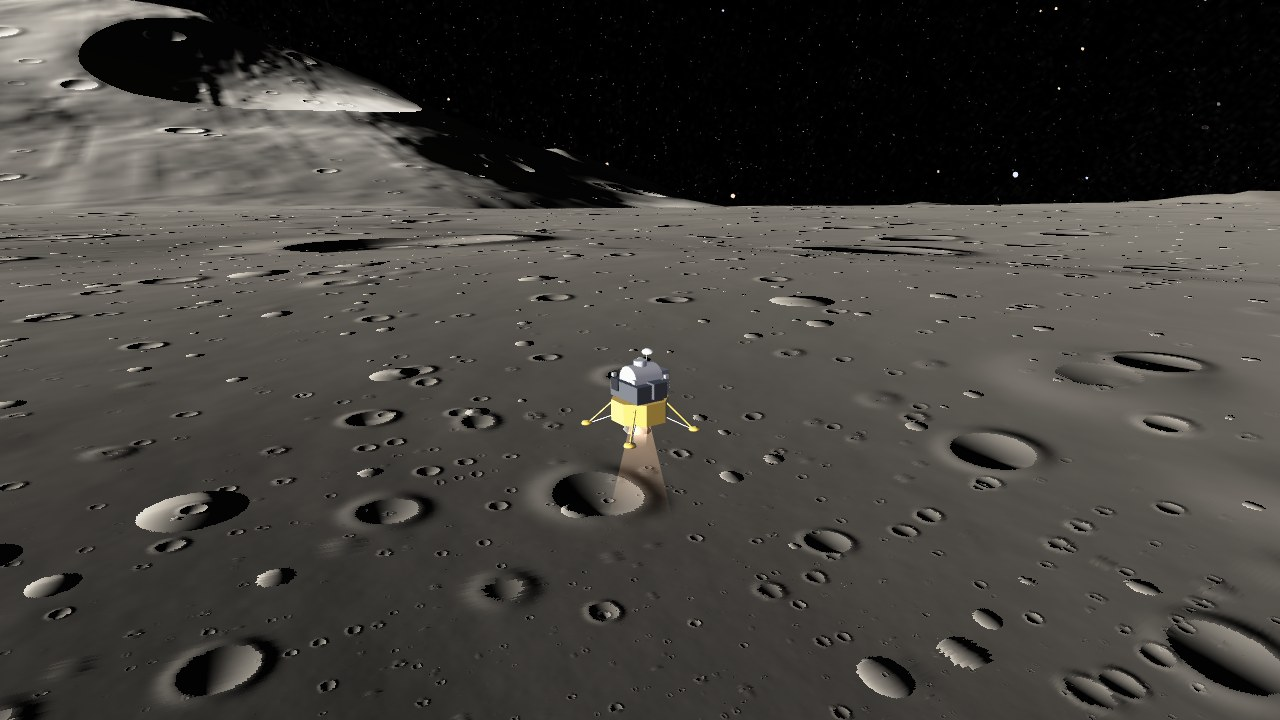
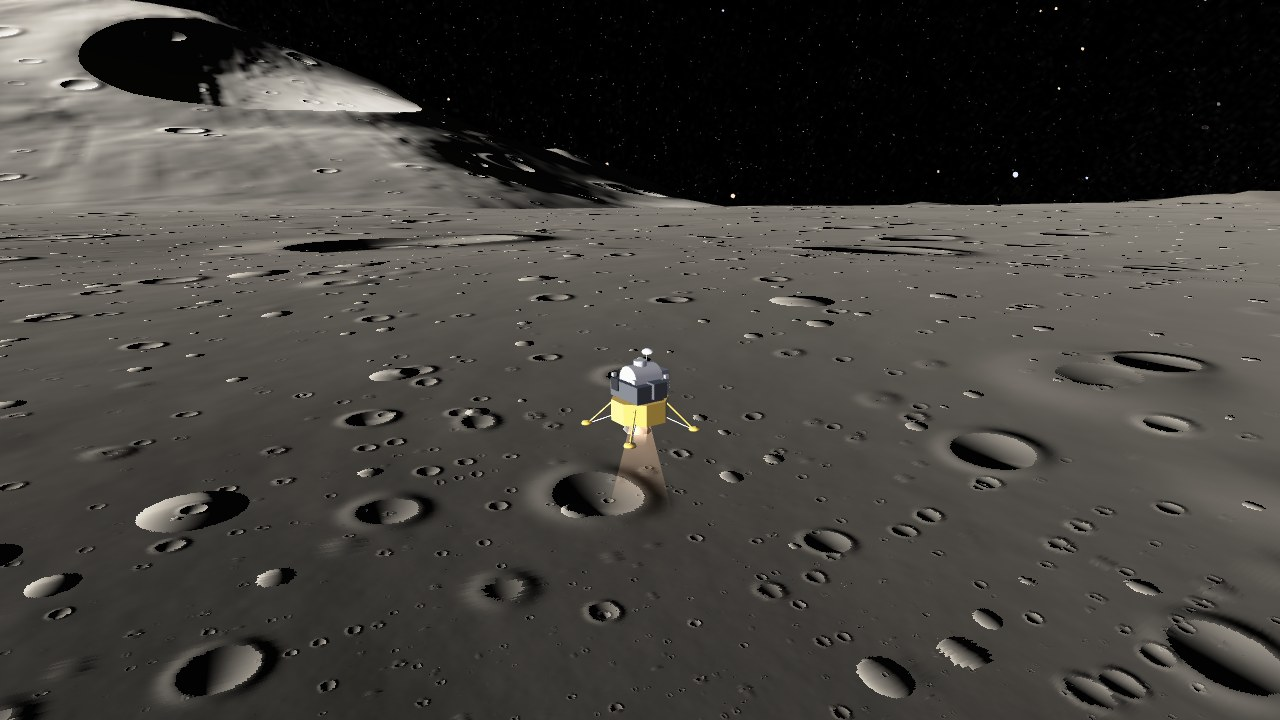
Shade the Moon's relief at its real slopes, keep Antarctica's coastal ice sheet off the sea, and keep Mars's boulders and crater floors from darkening its map colors

Changed region(s): [[0.1562, 0.0611, 0.5, 0.3056], [0.0, 0.0, 0.1875, 0.1833]]

diff --git a/src/shaders.h b/src/shaders.h
@@ -712,6 +712,20 @@ vec4 boulders(vec3 p, float F, float cover, float tall, vec3 salt) {
     return s;
 }
 
+// boulders が地表を覆う割合（3 段のうち画素より大きく見える段。1 段は セルに置く確率 × 球の体積の割合の平均 0.0313）
+float bouldersArea(float F, float cover) {
+    float a = 1.0, f = F;
+    for (int k = 0; k < 3; k++, f *= 2.3) if (lodW(f) > 0.0) a *= 1.0 - min(cover * 30.0, 1.0) * 0.0313;
+    return 1.0 - a;
+}
+// craters の g_floor の平均（崩れたクレーターの底の割合）。1 個の平均（底の球の体積 × (1 - 新しさ)。r と新しさの分布での平均
+// 0.00444）に層ごとの置く確率と、平均の半径 0.15 での重みを掛けて足す
+float craterFloorMean(float density, float F0, float worn) {
+    float s = 0.0, F = F0, dk = density;
+    for (int i = 0; i < 16 && lodW(F * 1.7) > 0.0; i++, F *= 2.2, dk *= craterLayerK(worn)) s += min(dk, 1.0) * 0.00444 * lodW(F / 0.3);
+    return s;
+}
+
 // 砂の波（さざ波・砂丘）: 決まった 2 つの向きの波を、場所ごとにゆっくり変わる重みで混ぜる（向きそのものを場所で変えると、
 // 細かい波の位相が乱れるため）。断面は風下側が急な非対称。峰は数波長ごとに曲がり、高さは峰の曲がりと同じノイズでむらにする。
 // 大小 2 つの波（さざ波と砂丘）をまとめて求める。F1, F2: 波数（単位球の長さあたり、波長 = 2π / F）、k1, k2: 傾きの大きさ
@@ -1256,9 +1270,9 @@ vec4 moonTex(vec3 p, vec3 o, out vec3 base) {
     float hN = moonHeightM(textureGrad(texture1, uv - vec2(0.0, st.y), dx, dy));
     float hS = moonHeightM(textureGrad(texture1, uv + vec2(0.0, st.y), dx, dy));
     float hm = moonHeightM(textureGrad(texture1, uv, dx, dy));
-    const float R = 1737400.0, EXAG = 1.5;
-    float dhdLon = (hE - hW) / (2.0 * st.x) / (2.0 * PI) / R * EXAG;
-    float dhdLat = (hN - hS) / (2.0 * st.y) / PI / R * EXAG;
+    const float R = 1737400.0;   // 起伏の陰影は実際の傾きのまま（強調しない。地球と同じ）
+    float dhdLon = (hE - hW) / (2.0 * st.x) / (2.0 * PI) / R;
+    float dhdLat = (hN - hS) / (2.0 * st.y) / PI / R;
     vec3 east = vec3(-sin(lon), 0.0, -cos(lon));
     vec3 north = vec3(-sin(lat) * cos(lon), cos(lat), sin(lat) * sin(lon));
     vec3 grad = east * dhdLon / max(cos(lat), 0.05) + north * dhdLat;
@@ -1266,7 +1280,7 @@ vec4 moonTex(vec3 p, vec3 o, out vec3 base) {
     vec2 sl;
     float hd, dw = detGradient(uv, dx, dy, lat, R, sl, hd);
     if (dw > 0.0) {
-        grad = mix(grad, (east * sl.x + north * sl.y) * EXAG, dw);
+        grad = mix(grad, east * sl.x + north * sl.y, dw);
         hm = mix(hm, hd, dw);
     }
 
@@ -1282,7 +1296,7 @@ vec4 moonTex(vec3 p, vec3 o, out vec3 base) {
         Bk = boulders(p, R / 20.0, ra, 0.6, o * 0.53);
         base *= 1.0 + 0.2 * step(1e-10, Bk.x);
     }
-    return vec4(hm / R * EXAG, grad) + C + T + Bk;
+    return vec4(hm / R, grad) + C + T + Bk;
 }
 
 // 探査機の画像による地図のある天体（水星・火星・ケレス・ベスタ・衛星・冥王星など）。月と同じ並びの地図を貼る。
@@ -1365,19 +1379,21 @@ vec4 mapTex(vec3 p, vec3 o, out vec3 base) {
         // 地図（1 画素 約 5 km）より細かい明るさのむら mot（値はどれも HiRISE などの画像の見た目からの目安）:
         //  - 暗い砂の吹きだまり: 低い所（手続きの起伏の谷）にたまる、境目のはっきりした斑（地表の 4 分の 1 ほど、周りの 0.85 倍）。
         //    塵の積もった所には無い
-        //  - 崩れたクレーターの埋まった底: 暗い砂がたまる（0.75 倍）
-        //  - 岩塊: 玄武岩で周りより暗い（0.82 倍）
+        //  - 崩れたクレーターの埋まった底: 暗い砂がたまる（0.75 倍。平均では 0.2% ほど）
+        //  - 岩塊: 玄武岩で周りより暗い（0.82 倍。岩の多い所で地表の 9% ほどを覆い、平均では 1.6% ほど）
         //  - ゆるやかなむら ±8%
         //  - 崖: むき出しの岩で 0.9 倍。地層ごとに ±12% の縞
-        // 地図の画素の平均の明るさが変わらないよう、斑の分は割り戻す（斑が画素より細かくなって消える遠くでは割り戻さない）。
+        // 地図の画素の平均の明るさが変わらないよう、斑・底・岩塊の分は割り戻す（画素より細かくなって消える遠くでは割り戻さない）。
         // 砂丘の砂の暗さは地図の色に入っている（砂丘地帯の地図は色の地図より粗いので、地図より細かい明暗にはならない）
         float Rm = R;
-        if (rock > 0.0) mat = boulders(p, Rm / 20.0, 0.12 * rock * (1.0 - g_ice), 0.6, o * 0.53);
+        float bc = 0.12 * rock * (1.0 - g_ice);
+        if (rock > 0.0) mat = boulders(p, Rm / 20.0, bc, 0.6, o * 0.53);
         float bare = (1.0 - dust) * (1.0 - g_ice);
         float drift = smoothstep(0.25, 0.45, fbmL(p, 9000.0, 12, 0.5, o + 71.0) * 0.6 - Tn.x * 0.5) * bare;
         float mot = (1.0 - 0.15 * drift) / (1.0 - 0.15 * 0.25 * bare * lodW(9000.0));
-        mot *= 1.0 - 0.25 * clamp(g_floor, 0.0, 1.0) * (1.0 - g_ice);
-        mot *= 1.0 - 0.18 * step(1e-10, mat.x);
+        float fm = cov > 0.0 ? 0.25 * (1.0 - g_ice) * craterFloorMean(0.35 * kC, 260.0, craterWorn(st)) : 0.0;
+        mot *= (1.0 - 0.25 * clamp(g_floor, 0.0, 1.0) * (1.0 - g_ice)) / (1.0 - fm);
+        mot *= (1.0 - 0.18 * step(1e-10, mat.x)) / (1.0 - 0.18 * (rock > 0.0 ? bouldersArea(Rm / 20.0, bc) : 0.0));
         if (sand > 0.0) mat += sandWaves(p, 6.2832 * Rm / 25.0, 0.1, 6.2832 * Rm / 300.0, 0.35, o + 61.0) * sand;
         mot *= 1.0 + 0.08 * fbmL(p, 2000.0, 14, 0.55, o + 83.0);
         if (cliff > 0.0) {   // 地層の縞（隣の層と境目の 2 割でなじませる。段と同じく細かすぎる所は消す）

diff --git a/tools/make_earth_assets.py b/tools/make_earth_assets.py
@@ -84,11 +84,15 @@ def land_fraction(work, color):
     海とつながっていない海面下の土地は、地表画像で砂や岩の色（赤みがあって明るい）の所を陸にする（カッターラ低地 -133 m・
     トルファン盆地 -154 m・ダナキル低地 -125 m・デスバレー -86 m・ヨルダン渓谷など。どれも 50 m より深い）。
     海とつながった所は広げない（南極などの海氷・凍った入り江が陸になる）。水の色の所（死海・ソルトン湖）と、
-    凍った湖（白い）・濁った湖の岸（赤みが無いか暗い）は水のまま"""
+    凍った湖（白い）・濁った湖の岸（赤みが無いか暗い）は水のまま。
+    南緯 60° より南では、海面から 50 m より高い所を水にしない（南極に、この解像度で見える湖は無い。ドライバレーの湖は数 km で、
+    地表画像でも岩の色）。地表画像の海岸線が ETOPO より最大 20 km ほど内陸にずれている所（プリッツ湾・ベリングスハウゼン海の岸など）は、
+    標高数百 m の氷床が海の色で塗られているので、陸にしたうえで色も使わない（2 つ目の戻り値。fill_ocean で周りの陸の色で埋める）"""
     big = make_earth_detail.W, make_earth_detail.H
     tile = make_earth_detail.TILE
     land = np.zeros((big[1], big[0]), bool)
     dry = np.zeros((big[1], big[0]), bool)   # 海面下でも、海から離れていれば陸にする色の所
+    badc = np.zeros((big[1], big[0]), bool)  # 陸なのに地表画像が海の色の所
     for r in range(big[1] // tile):
         e = make_earth_detail.load_band(work, r)
         e = np.concatenate([e[:, big[0] // 2:], e[:, :big[0] // 2]], axis=1)   # 経度 -180° を左端に
@@ -98,8 +102,12 @@ def land_fraction(work, color):
         R, G, B = c[..., 0], c[..., 1], c[..., 2]
         water = (B > np.maximum(R, G) + 8) | ((R + G + B < 100) & (B >= R))
         water &= (e <= 0) | (R + G + B < 450)   # 海面より高い所の明るい青は氷（南極・グリーンランドの裸氷。凍った湖は暗い）
+        lat = 90.0 - (np.arange(r * tile, (r + 1) * tile) + 0.5) * 180.0 / big[1]
+        ice = (lat[:, None] < -60) & (e > 50) & water   # 南極の、海面より高い「水」
+        water &= ~ice
         landish = (e >= 0) | ((e > -50) & (R >= B) & (R + G + B >= 60))
         land[r * tile:(r + 1) * tile] = landish & ~water
+        badc[r * tile:(r + 1) * tile] = ice & (R + G + B < 300)   # 青い裸氷（明るい）は色をそのまま使う
         dry[r * tile:(r + 1) * tile] = ~water & (R >= B + 15) & (R + G + B >= 150)
     # 水のつながり（斜めも含む）。経度 ±180° の端どうしもつなぎ、いちばん大きいものを海とする
     lab, n = ndimage.label(~land, np.ones((3, 3), bool))
@@ -121,7 +129,8 @@ def land_fraction(work, color):
     sea = roots[lab] == size.argmax()
     del lab
     land |= dry & ~sea
-    return Image.fromarray(land.astype(np.uint8) * 255).resize((W, H), Image.BOX)
+    return (Image.fromarray(land.astype(np.uint8) * 255).resize((W, H), Image.BOX),
+            Image.fromarray(badc.astype(np.uint8) * 255).resize((W, H), Image.BOX))
 
 
 def fill_ocean(color, land):
@@ -159,13 +168,15 @@ def main():
     elev = load_etopo(fetch(work, ETOPO_URL, ETOPO_FILE)).resize((W, H), Image.BILINEAR)
     color_src = Image.open(src["color"]).convert("RGB")
     color = color_src.resize((W, H), Image.LANCZOS)
-    frac = land_fraction(work, color_src)
+    frac, badc = land_fraction(work, color_src)
     land = frac.point(lambda v: 255 if v >= 128 else 0)
     # 海氷: 海の上の白い所（元画像の明るさから）
     gray = color.convert("L")
     seaice = ImageChops.multiply(gray.point(lambda v: max(0, min(255, (v - 100) * 4))), ImageChops.invert(land))
     # 陸の内側だけを使って海を埋める（海岸のテクセルは海の色が混ざっているので除く）
     inner = land.filter(ImageFilter.MinFilter(7))
+    # 地表画像が海の色の陸（南極の海岸）と、その縁の海の色が混ざったテクセルも除く
+    inner = ImageChops.multiply(inner, badc.point(lambda v: 255 if v == 0 else 0).filter(ImageFilter.MinFilter(5)))
     fill_ocean(color, inner).save(os.path.join(out, "earth_color.jpg"), quality=88, optimize=True)
     # R: 高さコード 海 0..127（127 が 0 m）, 陸 128..255。低い所ほど細かくなるよう平方根で詰める
     hl = ev("convert(128 + (min(max(e, 0), L) / L) ** 0.5 * 127 + 0.5, 'L')", e=elev, L=LAND_MAX)

diff --git a/CHANGELOG.md b/CHANGELOG.md
@@ -4,6 +4,13 @@
 
 リリースの時は、その版の項目が GitHub のリリースノートにも載ります。
 
+## 2.70.6 (2026-11-26)
+
+- 月の起伏の陰影を、1.5 倍に強調していたのをやめ、実際の傾きで描くようにした（地球は 2.70.5 で同じようにした）。太陽の低い時の山の斜面の明暗がおだやかになる
+- 南極の海岸に沿って、標高数百 m の氷床が海として描かれていたのを直した（約 6,400 テクセル）。地表画像（Blue Marble）の海岸線が標高データ（ETOPO）より最大 20 km ほど内陸にずれている所（プリッツ湾など）で、氷床が海の色で塗られていた。南緯 60° より南では海面から 50 m より高い所を水にせず、海の色の所は周りの氷の色で埋める。少し暗い青い裸氷が水になっていた所も陸になる
+- 火星の地面が、岩の多い所（最大 約 1.6%）と崩れたクレーターの底（約 0.2%）の分だけ、近くで地図の色より暗くなっていたのを直した。暗い岩塊と、砂のたまった底が地表を覆う割合の平均を割り戻す
+- README の「月の地形」「アポロ 15 号の着陸」の画像を撮り直した
+
 ## 2.70.5 (2026-11-25)
 
 - 地球の起伏の陰影を、2.5 倍に強調していたのをやめ、実際の傾きで描くようにした。地上近くの地形は標高どおりの高さで立体にしているのに、陰影の傾きだけが 2.5 倍で、形と陰影が合っていなかった。宇宙から見た山並みの陰影は弱くなる。太陽の低い時の山の斜面は、太陽に背を向けた所が多くなり、前より陰が濃く見える（月の陰影の 1.5 倍の強調はそのまま）

diff --git a/CHANGELOG.en.md b/CHANGELOG.en.md
@@ -4,6 +4,13 @@
 
 The release workflow copies the section of the version being released into the GitHub release notes.
 
+## 2.70.6 (2026-11-26)
+
+- The Moon's relief shading is no longer exaggerated 1.5 times and follows the real slopes (as Earth's has since 2.70.5). Mountain slopes under a low Sun are shaded more softly
+- Ice sheet several hundred meters above sea level along the Antarctic coast was drawn as sea (about 6,400 texels). Where the coastline of the surface image (Blue Marble) lies up to about 20 km inland of the elevation data (ETOPO), as at Prydz Bay, the ice sheet was painted in sea colors. South of 60° S, nothing more than 50 m above sea level is water, and the sea-colored parts are filled with the colors of the surrounding ice. Slightly darker blue bare ice that had become water is now land too
+- Mars's ground close up was darker than its map colors where rocks are common (up to about 1.6%) and on the floors of worn craters (about 0.2%). The average share of the surface covered by dark boulders and sand-filled floors is now compensated
+- Retook the README images of the Moon's terrain and the Apollo 15 landing
+
 ## 2.70.5 (2026-11-25)
 
 - Earth's relief shading is no longer exaggerated 2.5 times and follows the real slopes. The terrain near the ground is built at its true height, but its shading used slopes 2.5 times steeper, so the shapes and the shading did not match. Mountain ranges seen from space are shaded more softly. With the Sun low, more mountain slopes face away from it and look darker than before (the Moon's 1.5 times shading exaggeration is unchanged)
